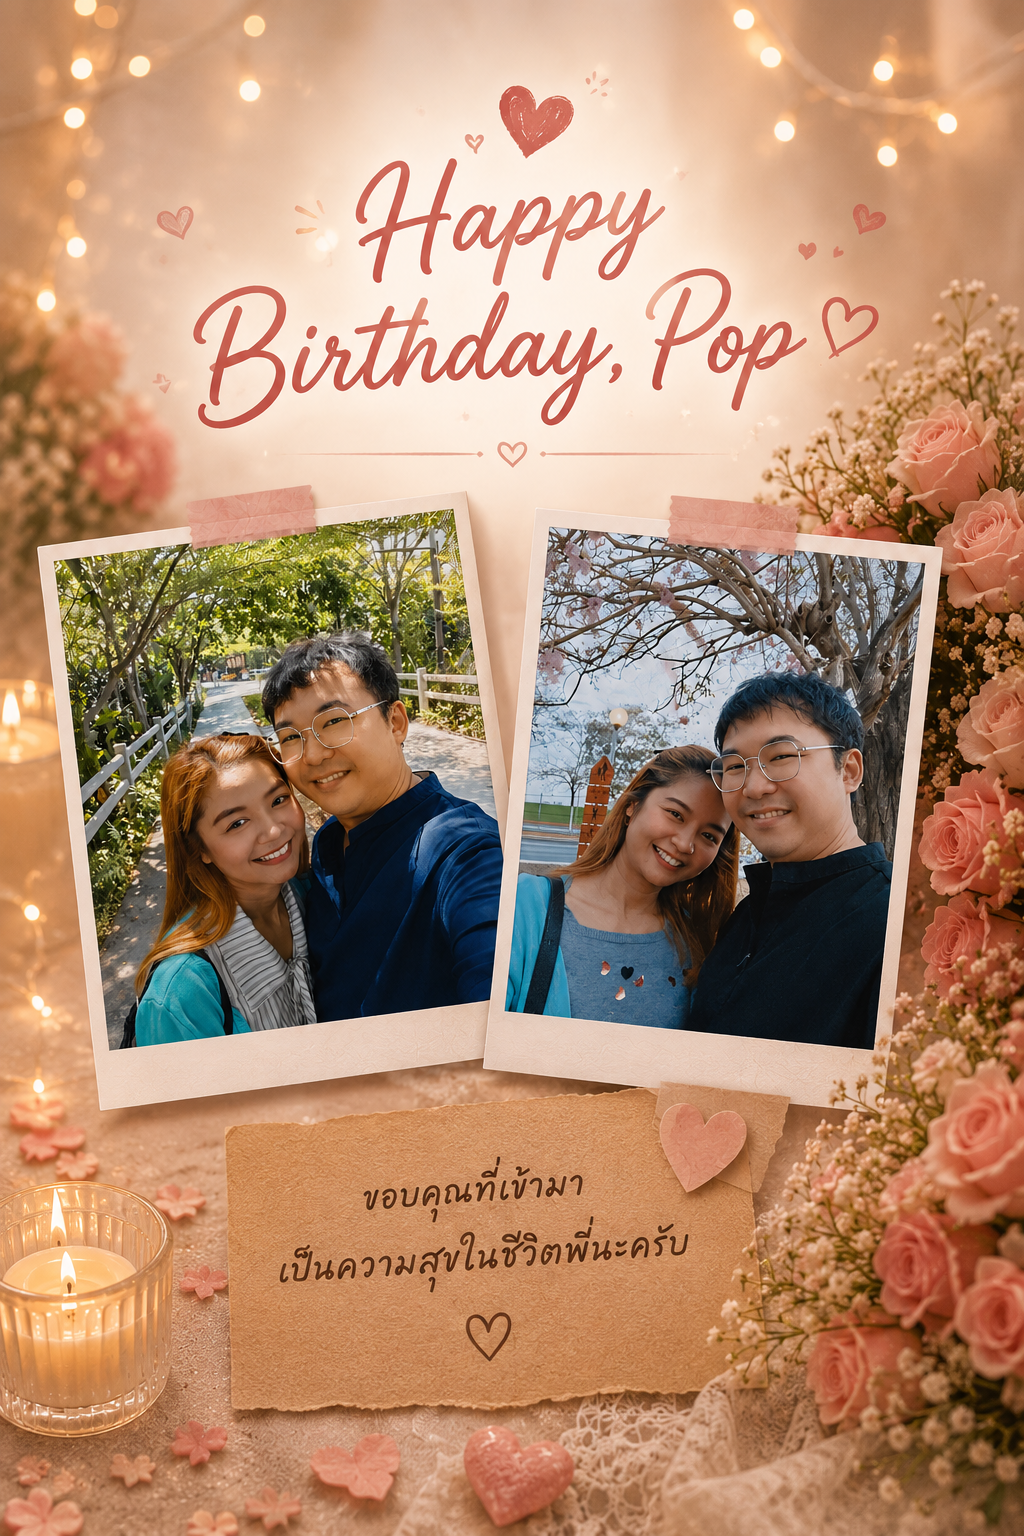
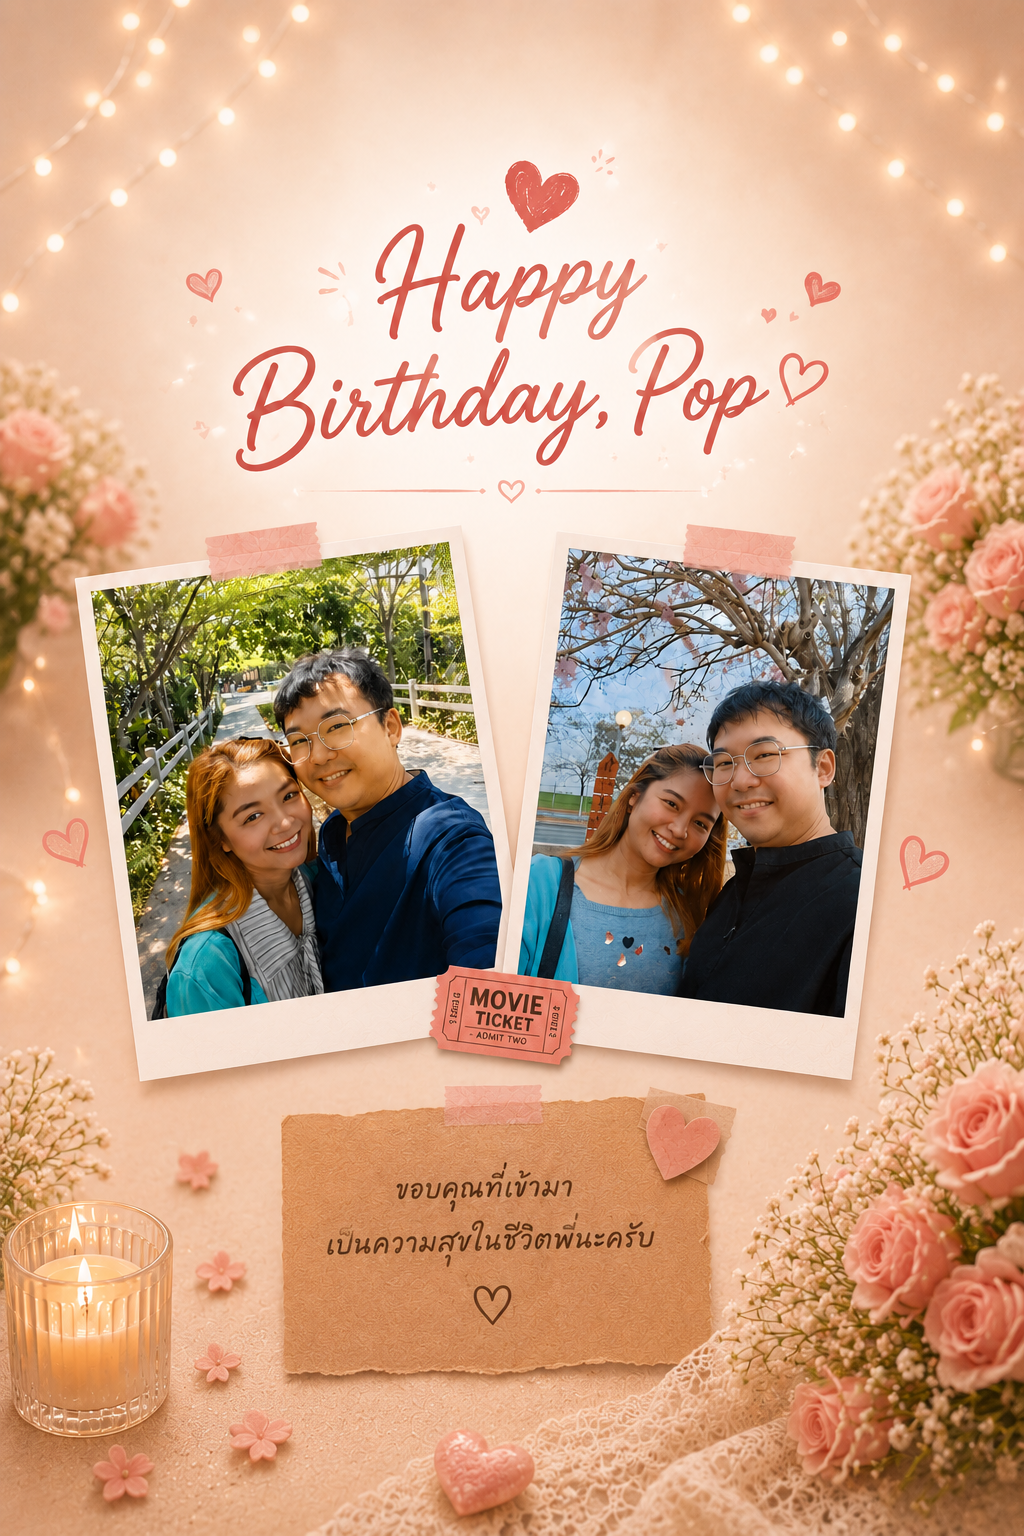
Update story backgrounds for scenes 1-3

diff --git a/index.html b/index.html
@@ -66,24 +66,9 @@
         <div class="scene__hero-overlay"></div>
       </section>
 
-      <section class="scene" id="scene-3" data-scene="3" data-title="อยุธยา">
-        <div class="scene__backdrop scene__backdrop--peach"></div>
-        <div class="scene__content">
-          <div class="scene-card">
-            <p class="scene-card__eyebrow">Scene 3</p>
-            <h2>ปีใหม่ที่เราได้ทำบุญร่วมกัน</h2>
-            <p class="scene-card__lead">
-              การเริ่มต้นปีใหม่ด้วยกัน ไม่ได้มีแค่การเดินทาง แต่เป็นความทรงจำที่ดีมากอีกวันหนึ่งของเรา
-            </p>
-            <!-- EDIT SCENE 3 MESSAGE HERE -->
-            <p class="scene-card__placeholder">[ ใส่ข้อความเล่าเรื่องไปอยุธยาและทำบุญปีใหม่ตรงนี้ ]</p>
-            <div class="scene-photo-strip">
-              <img src="images/102069_0.jpg" alt="Placeholder scene 3 photo 1">
-              <img src="images/102070_0.jpg" alt="Placeholder scene 3 photo 2">
-              <img src="images/102071_0.jpg" alt="Placeholder scene 3 photo 3">
-            </div>
-          </div>
-        </div>
+      <section class="scene scene--fullbg" id="scene-3" data-scene="3" data-title="วาเลนไทน์ 2569">
+        <div class="scene__bg scene__bg--scene3"></div>
+        <div class="scene__hero-overlay"></div>
       </section>
 
       <section class="scene" id="scene-4" data-scene="4" data-title="Valentine">

diff --git a/css/style.css b/css/style.css
@@ -196,6 +196,10 @@ img {
   background: url("../images/backgrounds/scene-02-bg.png") center center / cover no-repeat;
 }
 
+.scene__bg--scene3 {
+  background: url("../images/backgrounds/scene-03-bg.png") center center / cover no-repeat;
+}
+
 .scene--hero .scene__bg--secondary {
   background: url("../images/backgrounds/scene-01-bg-b.png") center center / cover no-repeat;
   mix-blend-mode: soft-light;